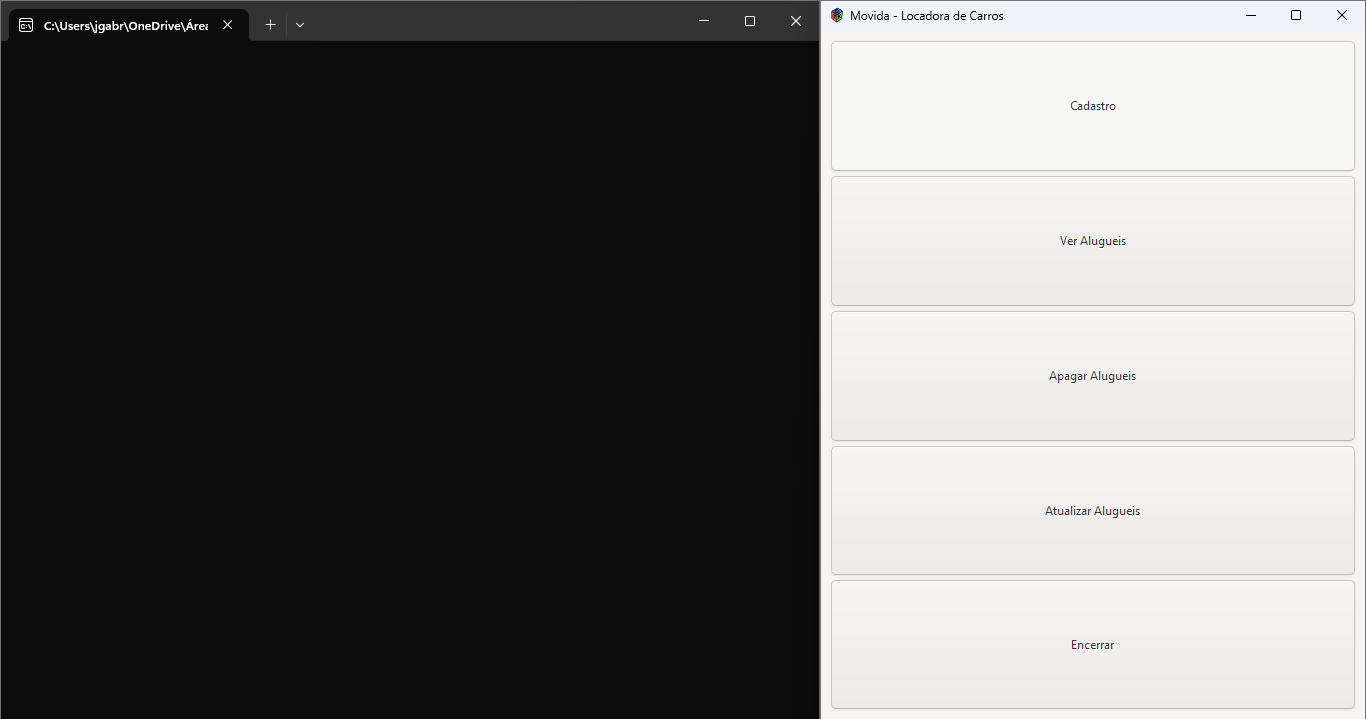
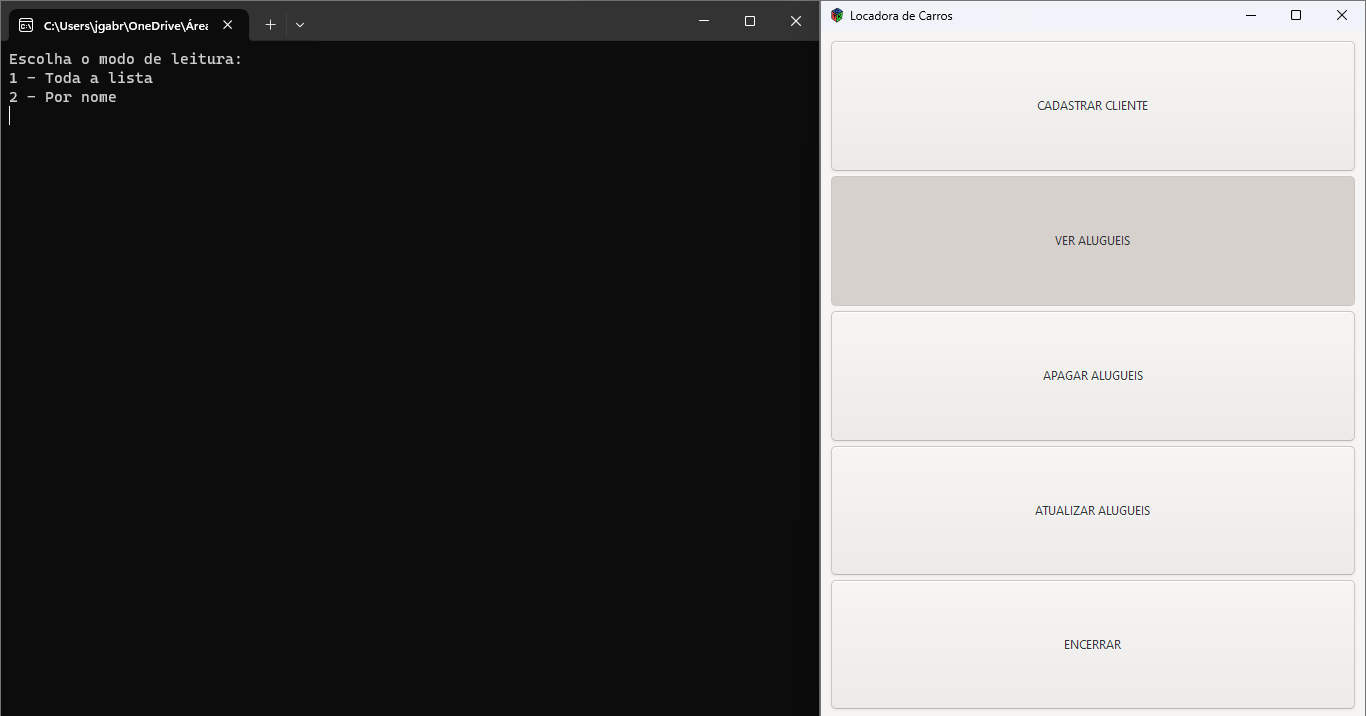
Implementado system cls
Limpa o cmd a cada interação com o botão da interface.

diff --git a/main.c b/main.c
@@ -258,23 +258,27 @@ void updateAlugueis(void) {
 // Implementação dos callbacks
 
 void cadastro_button_clicked(GtkWidget *widget) {
+    system("cls");
     cadastroAluguel();
     // remove a referência não utilizada para evitar o aviso de variável não utilizada
     (void)widget;
 }
 
 void ver_alugueis_button_clicked(GtkWidget *widget) {
+    system("cls");
     localizarAlugueis();
     // remove a referência não utilizada para evitar o aviso de variável não utilizada
     (void)widget;
 }
 
 void apagar_alugueis_button_clicked(GtkWidget *widget) {
+    system("cls");
     apagarAlugueis();
     (void)widget;
 }
 
 void atualizar_alugueis_button_clicked(GtkWidget *widget) {
+    system("cls");
     updateAlugueis();
     (void)widget;
 }
